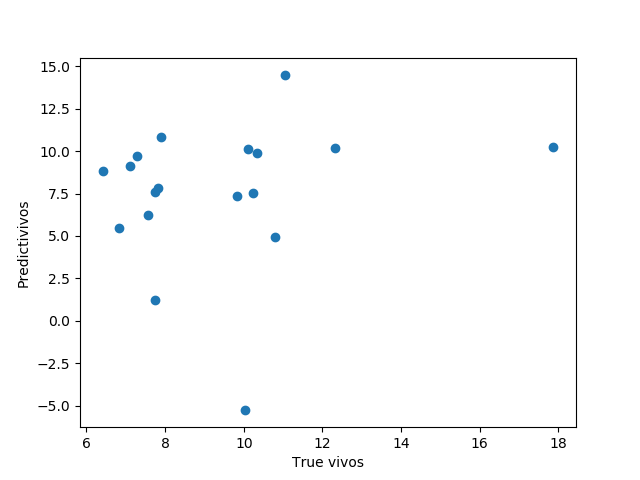
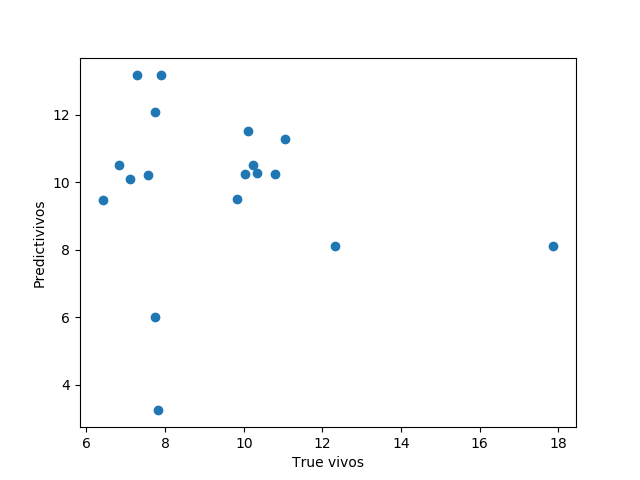
Fairly certain optimal parameters for MLP and decision tree are in place - runtime for cross validation testing is not fun. Current optimal parameters commented/added, MLP unexpectedly scores higher

diff --git a/root/webinterface/modules/ml.py b/root/webinterface/modules/ml.py
@@ -10,7 +10,7 @@ from modules import datahandler, graph_factory
 dth = datahandler
 graph = graph_factory
 
-drop_features_regression = ['cupx', 'cupy', 'volwear', 'volwearrate']
+drop_features_regression = ['id', 'cupx', 'cupy', 'volwear', 'volwearrate', 'cupx', 'cupy']
 # These are removed - do not remove Case
 
 """
@@ -67,15 +67,20 @@ def predict_longevity():
 
 # Function for predicting the longevity of a single sample - given the training/testing dataset and a new CSV file
 # containing the exact same features as the training/testing set.
-def target_predict_longevity(target):
+def target_predict_longevity(target, recalibrate=False):
+
+    # For each parameter value range, multiply that value with the next and the next and so on, split the result by:
+    # i7-3770k at 4.8GHz - divide by 136 to get the seconds required to run the test.
     parameters = {
-        'criterion': ('mse', 'friedman_mse', 'mae'),
+        # 'criterion': ('mse', 'friedman_mse', 'mae'),
         'splitter': ('best', 'random'),
         'max_depth': range(1, 4),
-        'min_samples_split': range(10, 13),
-        'min_samples_leaf': range(1, 3),
-        'max_leaf_nodes': range(2, 6)
+        'min_samples_split':  range(10, 13),  # iterates from 0.01 to 0.99
+        'max_leaf_nodes': range(2, 5),
+        'min_impurity_decrease': (0.0, 0.01, 0.02, 0.04),
+        'presort': (True, False)
     }
+
     target = prune_features(target)
     df = prune_features(dth.Data.dataframe)
 
@@ -84,17 +89,30 @@ def target_predict_longevity(target):
     regressor.fit(x_train, y_train)
 
     # TODO for use with random_state=none
-    #while regressor.best_score_ < 0.29:
+    # while regressor.best_score_ < 0.29:
     #    print('recalibrating')
     #    regressor = GridSearchCV(DecisionTreeRegressor(), parameters, refit=True)
     #    regressor.fit(x_train, y_train)
 
-    target_pred = target.drop('years in vivo',axis=1)
+    target_pred = target.drop('years in vivo', axis=1)
     y_prediction = regressor.predict(target_pred)
 
     print(regressor.best_params_)
+    print('R2 is: ' + str(regressor.best_score_))
+
+    dth.save_file('DTregressorbestparams.sav', regressor.best_params_)
 
     return pd.DataFrame({'Actual': target['years in vivo'], 'Predicted': y_prediction}), regressor.best_score_
+
+
+def float_test():
+    float_list = []
+    x = 0.01
+    y = 1.0
+    while x < y:
+        float_list.append(x)
+        x += 0.01
+    return float_list
 
 
 # Loads a previously saved regression model if there is one, trains a new if there's not. If the dataframe being used
@@ -136,25 +154,44 @@ def update_regression_model(filename, x_train, y_train):
         print('Wrong filetype?')
 
 
-def mlp_regressor():
+def mlp_regressor(target):
+    # According to the dataset I've been given, these are the best parameters for MLP
+    # activation='logistic', alpha=0.0001, early_stopping=True, hidden_layer_sizes=(50, 40, 60, 80), solver='lbfgs,
+    # max_iter=195'
+
+    # - hidden_layer_sizes=(50, 40, 60, 80) when full unprocessed dataset
+    # - hidden_layer_sizes=(50, 50, 70, 60) for processed (pruned) dataset
+
     parameters = {
-        #'hidden_layer_sizes': [x for x in itertools.product((10, 20, 30, 40, 50, 100), repeat=3)],
-        'max_iter': range(80, 200),
-        'alpha': (0.0001, 0.0002, 0.0003, 0.0004),
-        'early_stopping': (True, False)
-
+        # 'hidden_layer_sizes': [x for x in itertools.product((10, 15, 20, 25, 30, 35, 40, 45, 50, 55, 60), repeat=1)],
+        # 'hidden_layer_sizes': [x for x in itertools.product((10, 20, 25, 30, 40, 45, 50, 55, 60), repeat=2)],
+        # 'hidden_layer_sizes': [x for x in itertools.product((30, 40, 50, 60, 70, 80), repeat=4)],
+        # 'activation': ('identity', 'logistic', 'tanh', 'relu'),
+        # 'max_iter': range(150, 300),
+        # 'alpha': (0.0000, 0.0001, 0.0002, 0.0003, 0.0004, 0.0005, 0.0006, 0.0007),
+        # 'early_stopping': (True, False)
     }
-    x_train, x_test, y_train, y_test = split_dataset_into_train_test(dth.Data.dataframe, 'years in vivo')
-    regressor = GridSearchCV(mlp.MLPRegressor(hidden_layer_sizes=(10, 10, 20), solver='lbfgs', random_state=33),
-                             parameters)
-    regressor.fit(x_train, y_train)
-    prediction = regressor.predict(x_test)
 
-    graph.save_regression_scatter_as_png(regressor, y_test, prediction)
+    target = prune_features(target)
+    df = prune_features(dth.Data.dataframe)
+
+    x_train, x_test, y_train, y_test = split_dataset_into_train_test(df, 'years in vivo')
+    regressor = GridSearchCV(mlp.MLPRegressor(activation='logistic', early_stopping=True, alpha=0.0001,
+                                              hidden_layer_sizes=(50, 50, 70, 60), solver='lbfgs', max_iter=195,
+                                              random_state=33), parameters)
+    regressor.fit(x_train, y_train)
+
+    target_pred = target.drop('years in vivo', axis=1)
+    prediction = regressor.predict(target_pred)
+
+    # graph.save_regression_scatter_as_png(regressor, y_test, prediction)
 
     print(regressor.best_params_)
+    print('R2 is: ' + str(regressor.best_score_))
 
-    return pd.DataFrame({'Actual': y_test, 'Predicted': prediction}), regressor.best_score_
+    dth.save_file('mlpbestscorefullparams.sav', regressor.best_params_)
+
+    return pd.DataFrame({'Actual': target['years in vivo'], 'Predicted': prediction}), regressor.best_score_
 
 
 def prune_features(df):

diff --git a/root/webinterface/run.py b/root/webinterface/run.py
@@ -1,4 +1,5 @@
 import os
+import time
 from os.path import dirname
 
 from flask import Flask, render_template, request, redirect, url_for, flash, send_from_directory
@@ -32,7 +33,11 @@ def save_dataframe_as_new():
 
 @app.route('/mlp', methods=['GET'])
 def mlp_regressor():
-    return mlp_regressor_test()
+    start = time.time()
+    stupidass = mlp_target_prediction()
+    end = (time.time() - start)
+    print('Runtime is: ' + str(end))
+    return stupidass
 
 
 @app.route('/regress', methods=['GET'])
@@ -60,7 +65,12 @@ def get_target_prediction_result():
             file.save(os.path.join(app.config['UPLOAD_FOLDER'], filename))
             return redirect(url_for('uploaded_file', filename=filename))
 
-    return target_prediction()
+    start = time.time()
+    stupidass = dt_target_prediction()
+    end = (time.time() - start)
+    print('Runtime is: ' + str(end))
+
+    return stupidass
 
 
 @app.route('/uploads/<filename>')
@@ -85,9 +95,11 @@ def select_features():
     pass
 
 
-def mlp_regressor_test():
-    result, r2 = ml.mlp_regressor()
-    return pandas_to_json(result, r2)
+# Multi-Layer Perceptron
+def mlp_target_prediction():
+    target = dth.load_dataframe(dth.Path.path + 'test.csv')
+    prediction, r2 = ml.mlp_regressor(target)
+    return pandas_to_json(prediction, r2)
 
 
 def test_regression():
@@ -95,7 +107,8 @@ def test_regression():
     return pandas_to_json(predictions, r2)
 
 
-def target_prediction():
+# Decision tree
+def dt_target_prediction():
     target = dth.load_dataframe(dth.Path.path + 'test.csv')
     prediction, r2 = ml.target_predict_longevity(target)
     result = pandas_to_json(prediction, r2)
